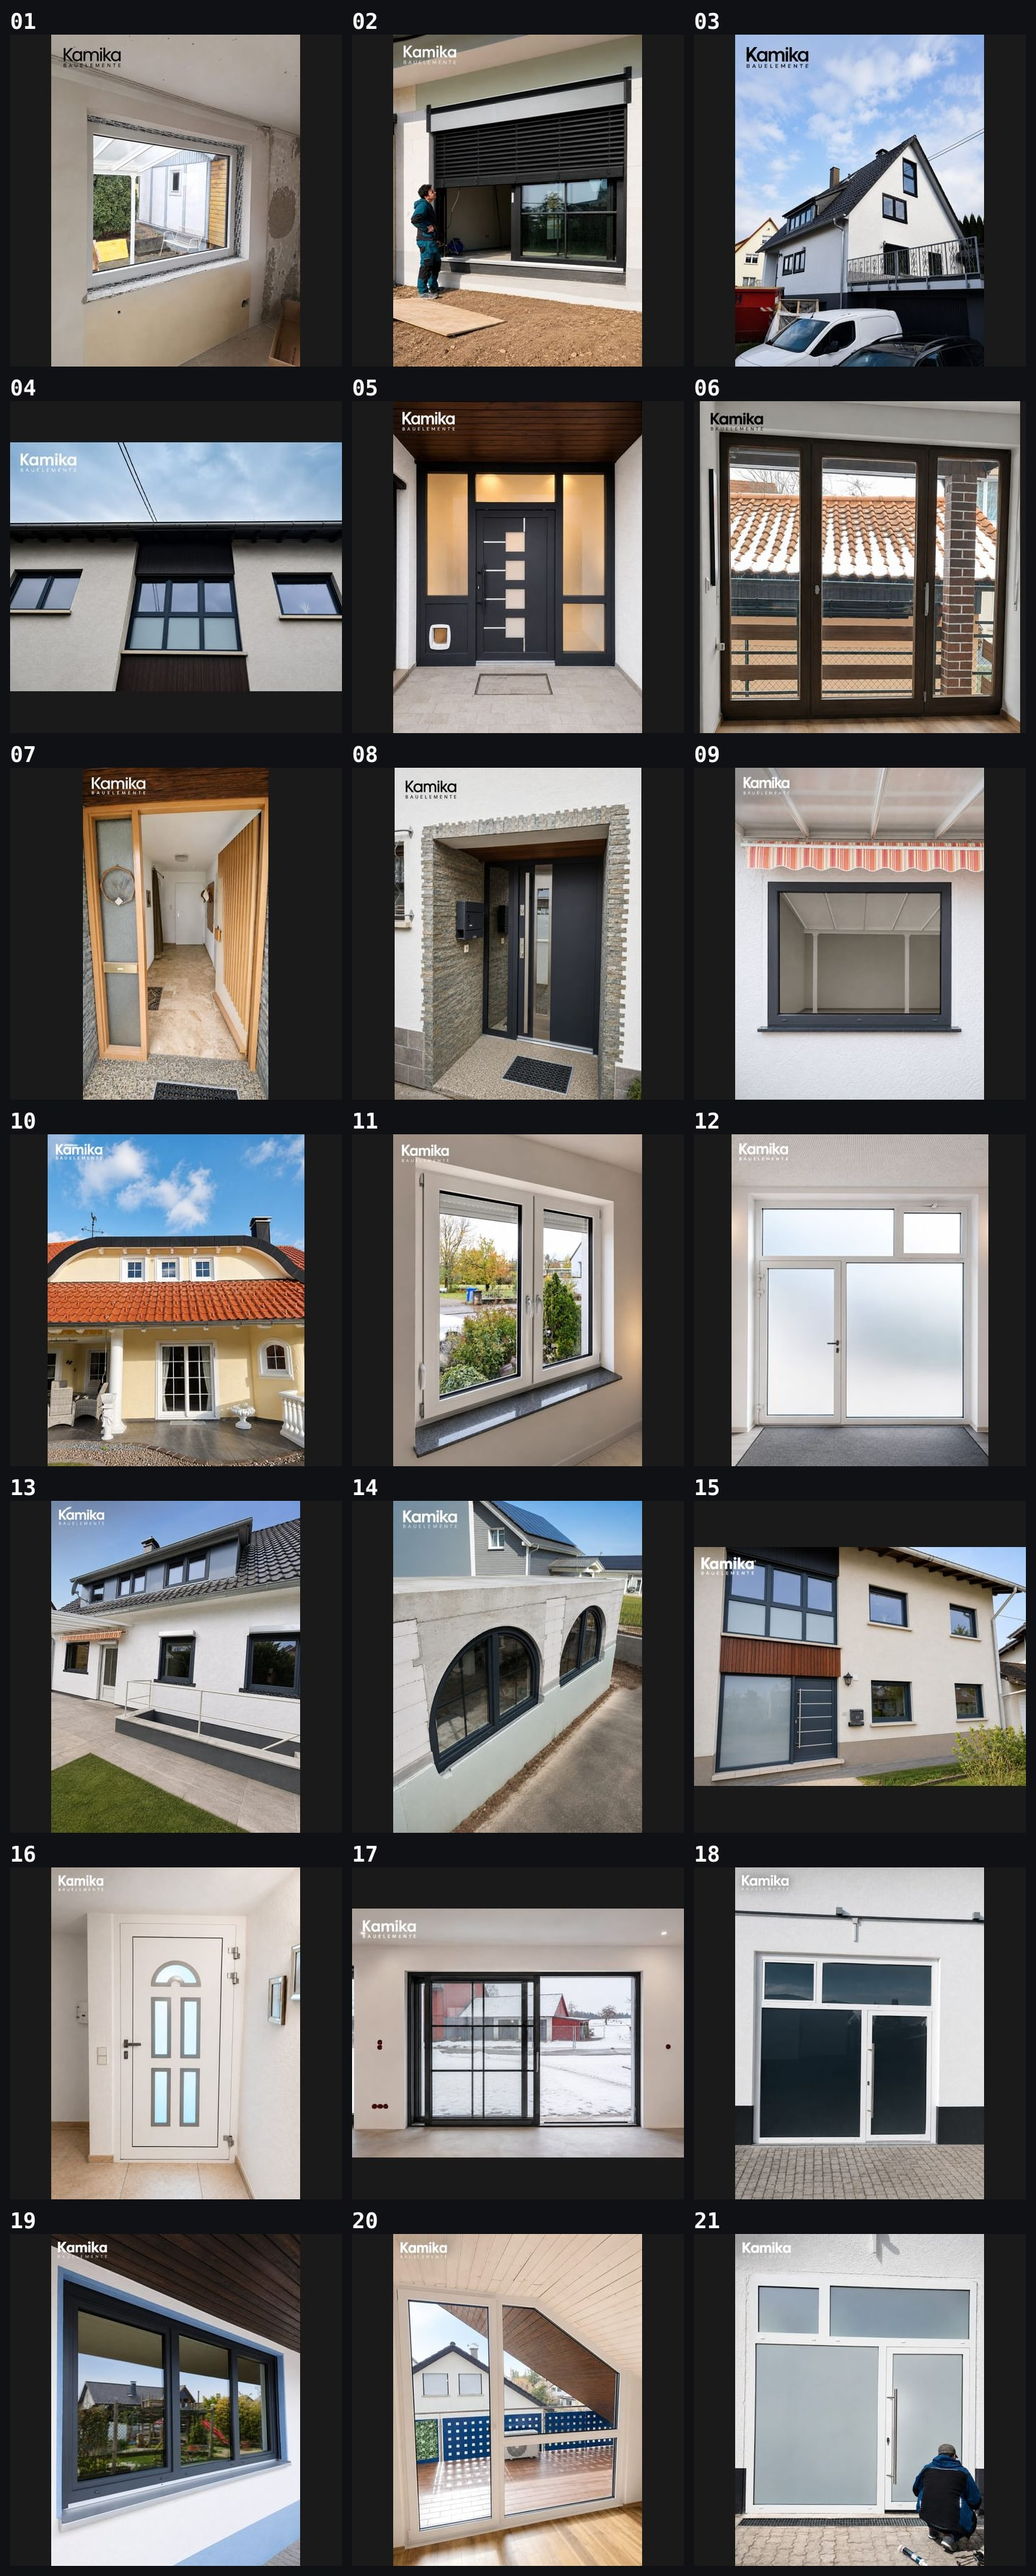
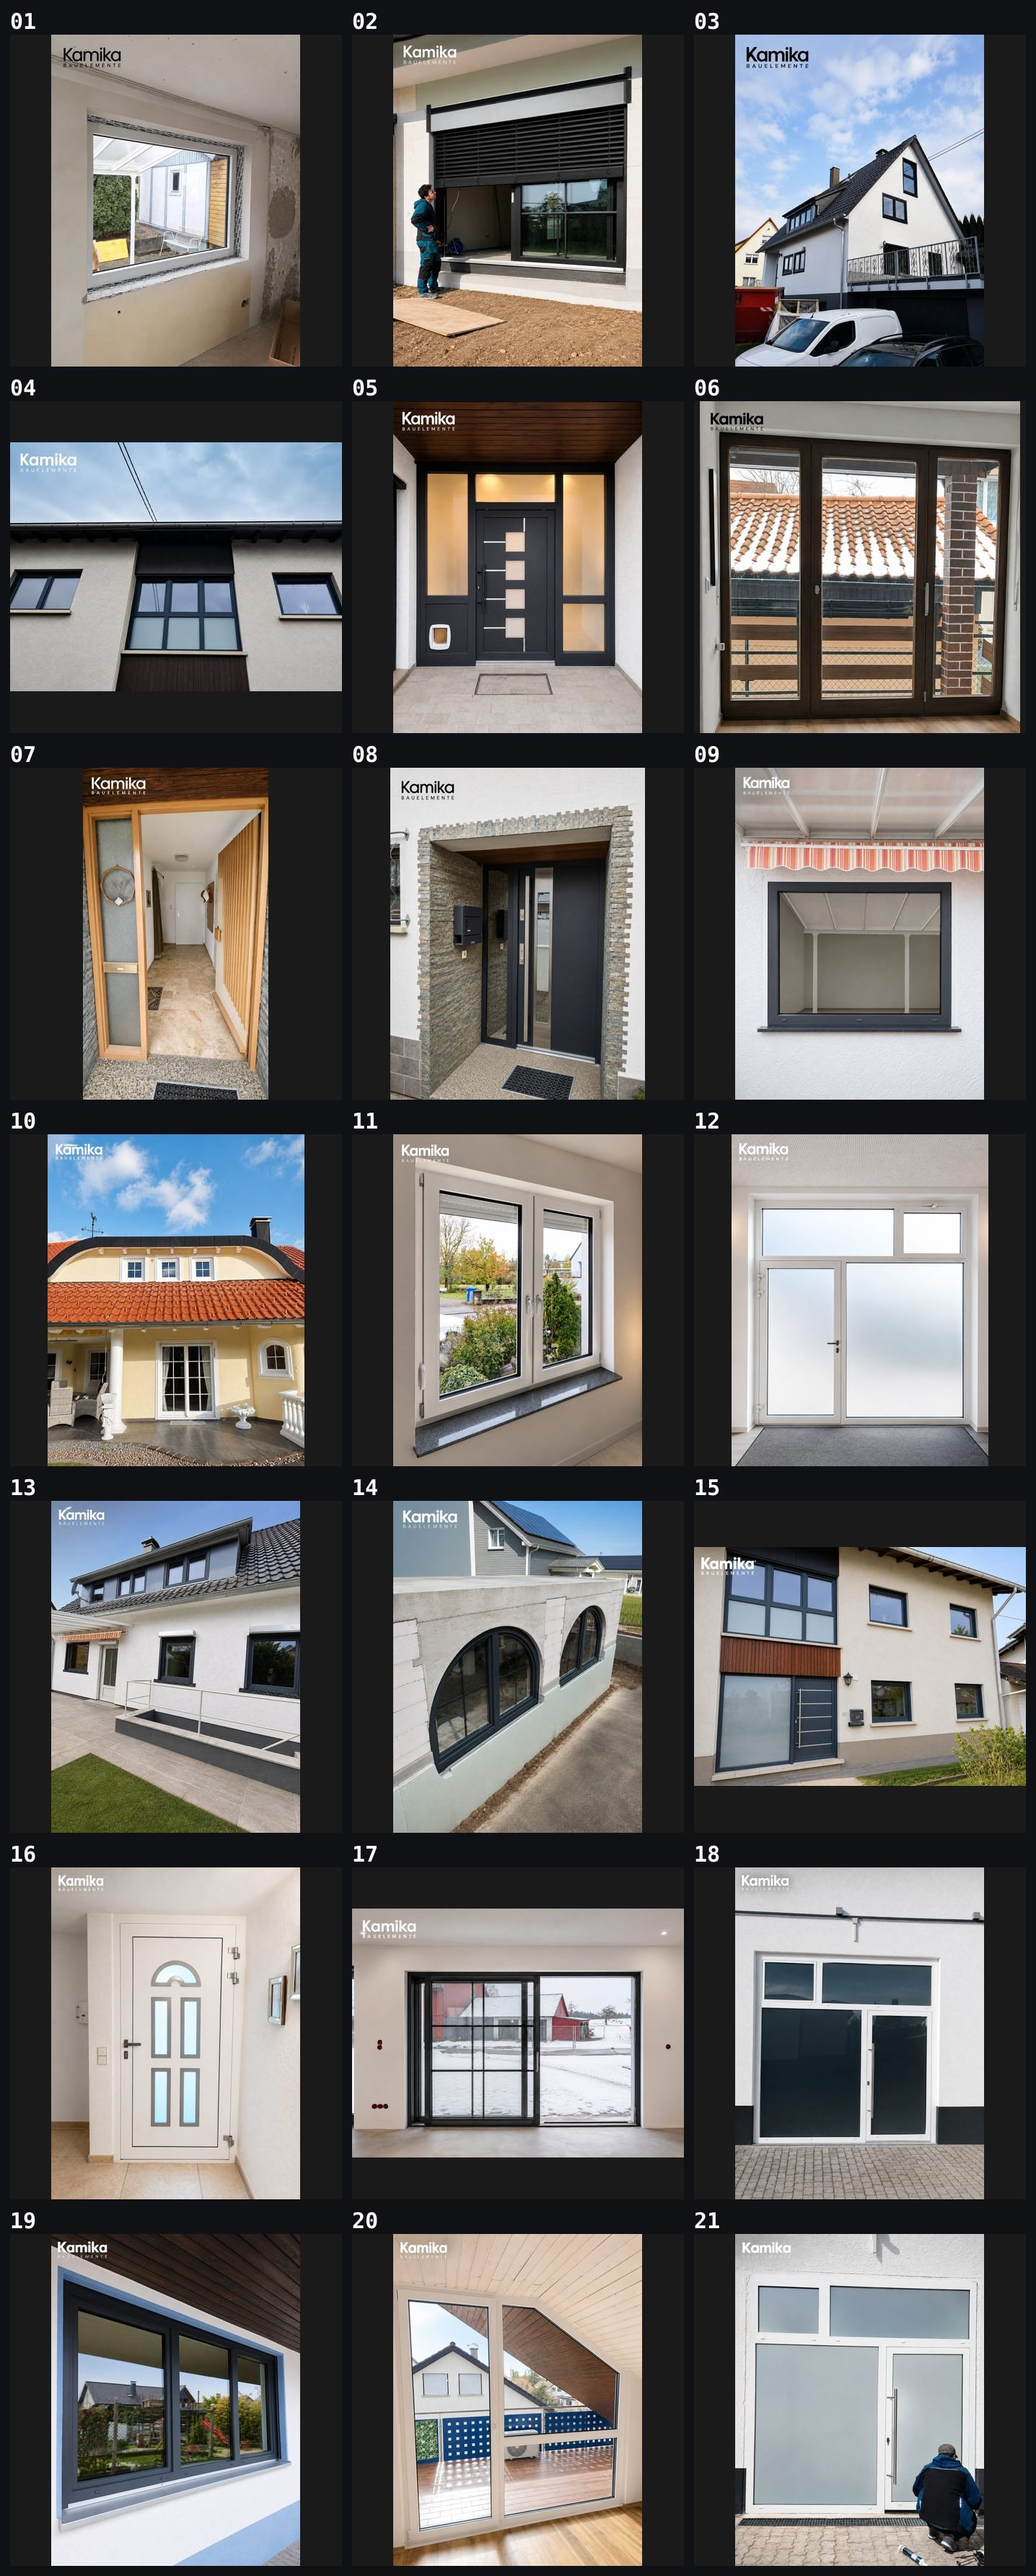
Portada de Terrassentüren, y la foto 08 sustituida por el original de cámara
Dos subidas del dueño, colocadas donde tocan.

La portada de la gama pasa a ser su imagen de marca —salón con corredera
de varias hojas a la terraza— recortada a 3:2 como el resto de
cabeceras. La gama entra en OWNER_PHOTOS: el script de láminas ya no
puede machacarla, que era justo el destrozo silencioso que esa lista
existe para evitar.

La foto 08 llevaba marca de "contenido generado por IA" y ahora es el
original de cámara de la misma puerta, sin marca. Hoja de contactos
regenerada.

Anotado en CONTENT.md por qué una imagen de marca vale para una portada
de gama y no valdría en Referenzen: la portada dice qué es una
corredera, la referencia dice que esa obra la hicimos nosotros.

Claude-Session: https://claude.ai/code/session_01Sxjf1VcRzjemu8b38bfFpR

Changed region(s): [[0.3677, 0.2798, 0.6435, 0.4353]]

diff --git a/CONTENT.md b/CONTENT.md
@@ -307,10 +307,17 @@ six invented ones.** For each: what the customer asked for, what was fitted, the
 project. The rest are waiting for him to say which job each one belongs to; then they move out of
 `subidas/` into `{project-id}-N.jpg` and the invented projects get deleted, oldest first.
 
-⚠ **Photo 08 carries a "Contenido generado por IA" watermark** in its bottom-left corner — it is
-AI-generated or AI-edited. It must NOT be published as a completed job: the site's whole claim is
-that the reference photos are real work. Flagged to the owner; do not use it until he replaces it
-with the original camera file.
+~~Photo 08 carried a "Contenido generado por IA" watermark~~ — **resolved the same day**: it was
+flagged to the owner, who uploaded the original camera file of the same door, and that is what
+`08.jpeg` now holds. Worth keeping the habit: before a photo goes on the references page, look at
+its corners. That page's whole claim is that the work is real, and one watermarked image would put
+the other twenty in doubt.
+
+**The Terrassentüren cover** (`public/images/categories/patio-doors-hero.jpg`) is brand imagery the
+owner supplied, not one of his jobs — a styled interior with a multi-panel slider onto a terrace.
+That is fine for a category cover, which says "this is what a patio door is", and it is why the
+range is now listed in `OWNER_PHOTOS` so the line-drawing script can never overwrite it. The same
+image would NOT be acceptable on the references page.
 
 `src/data/colors.ts` holds **126 finishes**, in seven groups. Two different origins, and the difference
 matters when maintaining it:
